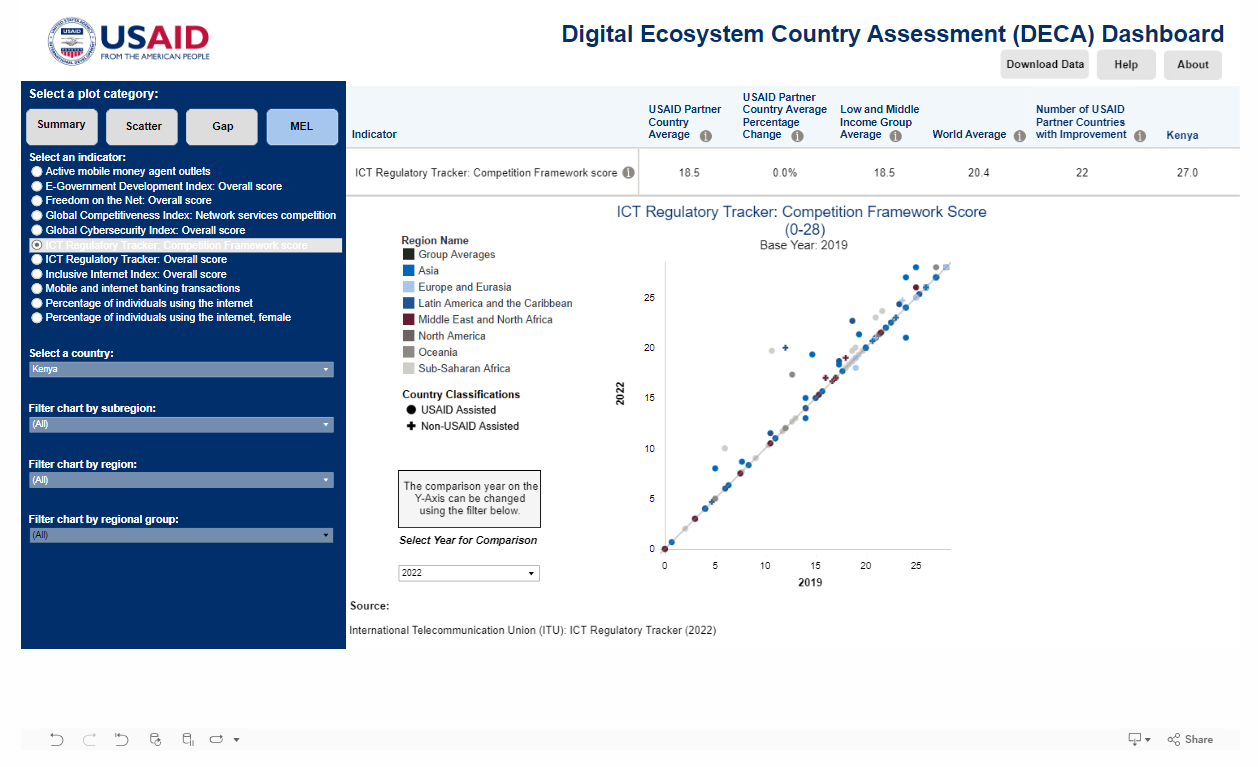
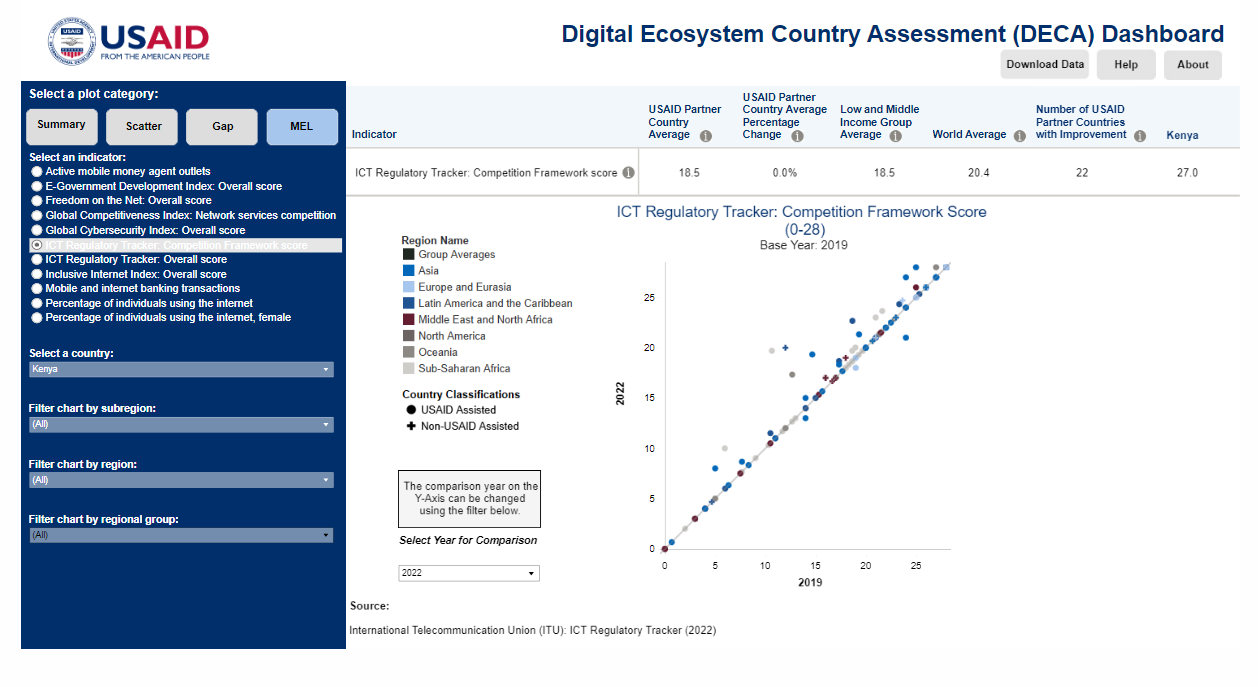
added visualizations

diff --git a/visualizations/index.md b/visualizations/index.md
@@ -3,22 +3,55 @@ Visualizations
 
 ## Public Visualizations
 
-Personal:
-<iframe align = "center" width = "800" height = "800" src="https://public.tableau.com/views/TourdeFrance2024/TourdeFrance?:publish=yes&:embed=true&:origin=viz_share_link"/>
+### Work for SelectUSA:
+
+I created public interactive data visualizations on foreign direct
+investment (FDI) into the United States at the metropolitan statistical
+area (MSA) level from Bureau of Labor Statistics (BLS) data.
+
+(FDI Data for States, MSAs, and
+Counties)\[<https://www.trade.gov/data-visualization/fdi-data-states-msas-and-counties>\]
+*August 2020* ![FDI1](FDI1.png)
+
+(MSA Investment by World
+Region)\[<https://www.trade.gov/data-visualization/msa-investment-world-region>
+\] *August 2020* ![FDI2](FDI2.png)
+
+### Personal:
+
+(Tour de France
+2024)\[<https://public.tableau.com/app/profile/sarah.cole2864/viz/TourdeFrance2024/TourdeFrance>\]
+*June 2024* ![Tour de France](Tour%20de%20France.png)
 
 ## Look upon my works, ye Mighty, and despair!
 
 ### For the USAID ones are no longer funded.
 
-Downloaded images of the public Tableau dashboards I created/managed
-during my time at USAID Data Services.
+The following downloaded images are from public Tableau dashboards I
+created/managed during my time at USAID Data Services. They were
+publically available until February 2025.
 
-**Digital Ecosystem Country Assessment (DECA) Dashboard:** I created the
-Monitoring, Evaluation, and Learning tab, which monitored selected
-indicators of digital growth across countries with available data. I
-created a graph comparing the indicators between base years and
-available years selected by the user. Countries receiving USAID
-assistance are marked, and countries by region are highlighted by color.
+**Evaluation Registry Dashboard:** *January 2025* I managed the FY2023
+update of the Evaluation Registry Dashboard, which provided an easy way
+to access and analyze USAID evaluations by country, sector, year, and
+type of evaluation (impact or performance).
+
+Map View ![ER Map View](ER%20Map%20View.png)
+
+Country View, including a view of the Evaluation Abstract highlighted
+when hovering over each evaluation. I managed the FY23 manual creation
+of these abstracts. ![ER Country View](ER%20Country%20View.png) ![ER
+Country View_hover](ER%20Country%20View_hover.png)
+
+Sector View ![ER Sector View](ER%20Sector%20View.png)
+
+**Digital Ecosystem Country Assessment (DECA) Dashboard:** *January
+2023* I created the Monitoring, Evaluation, and Learning tab, which
+monitored selected indicators of digital growth across countries with
+available data. I created a graph comparing the indicators between base
+years and available years selected by the user. Countries receiving
+USAID assistance are marked, and countries by region are highlighted by
+color.
 
 Active Mobile Money Agent Outlets (Per 100,000 Adults), Base Year 2017:
 ![DECA 1](DECA%201.png) E-Government Development Index Score (0-1), Base
@@ -29,3 +62,9 @@ Freedom on the Net: Overall Score (0-100), Base Year 2019: ![DECA
 
 Global Competitiveness Index: Competition in Network Services, Value
 (1-7), Base Year: 2018 ![DECA 4](DECA%204.png)
+
+ICT Regulatory Tracker: Competitiveness Framework Score (0-28), Base
+Year: 2019 ![DECA 5](DECA%205.png)
+
+ICT Regulatory Tracker: Overall Score (0-100), Base Year: 2019 ![DECA
+6](DECA%206.png)

diff --git a/README.md b/README.md
@@ -4,7 +4,7 @@ The Mead Hall
 ### Data \| Culture \| History
 
 <img
-src="README_files/figure-gfm/fa-icon-3b674253414300f2d00355d205b11e0f.svg"
+src="README_files/figure-gfm/fa-icon-663501d563913d68ed178edd8cdebfc7.svg"
 style="width:1.25em;height:1em" /> Hello and welcome! My name is **Sarah
 Cole.**
 
